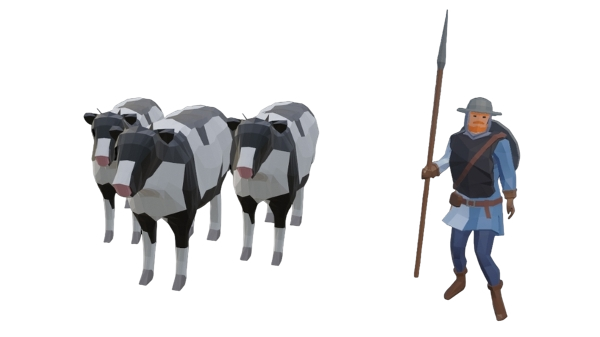
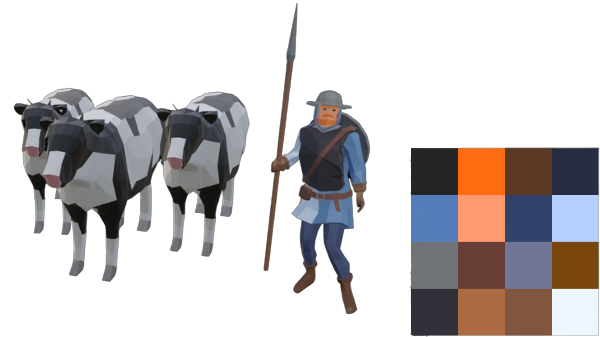
Small changes

diff --git a/Projects/BattleWall.html b/Projects/BattleWall.html
@@ -111,7 +111,7 @@
             <img src="../assets/BattleWall/LowPolyAssets.png" alt="Contributions 5" class="gallery-media">
             <p class="gallery-text">Low-Poly units. Rig and animations from Mixamo.
 
-To save materials and drawcalls, every unit uses a 3x3 pixel texture and the same material</p>
+To save materials and drawcalls, every unit uses a 4x4 pixel texture and the same material</p>
         </div>
     </section>
 

diff --git a/Projects/BachelorProject.html b/Projects/BachelorProject.html
@@ -34,6 +34,8 @@
                 <span class="meta-tag">NPCs</span>
                 <span class="meta-tag">Convai</span>
                 <span class="meta-tag">ReadyPlayerMe</span>
+                <span class="meta-tag">LipSync</span>
+                <span class="meta-tag">TextToSpeech</span>
             </div>
 
             <h3 class="subtitle">Can AI NPCs influence users decisions?</h3>
